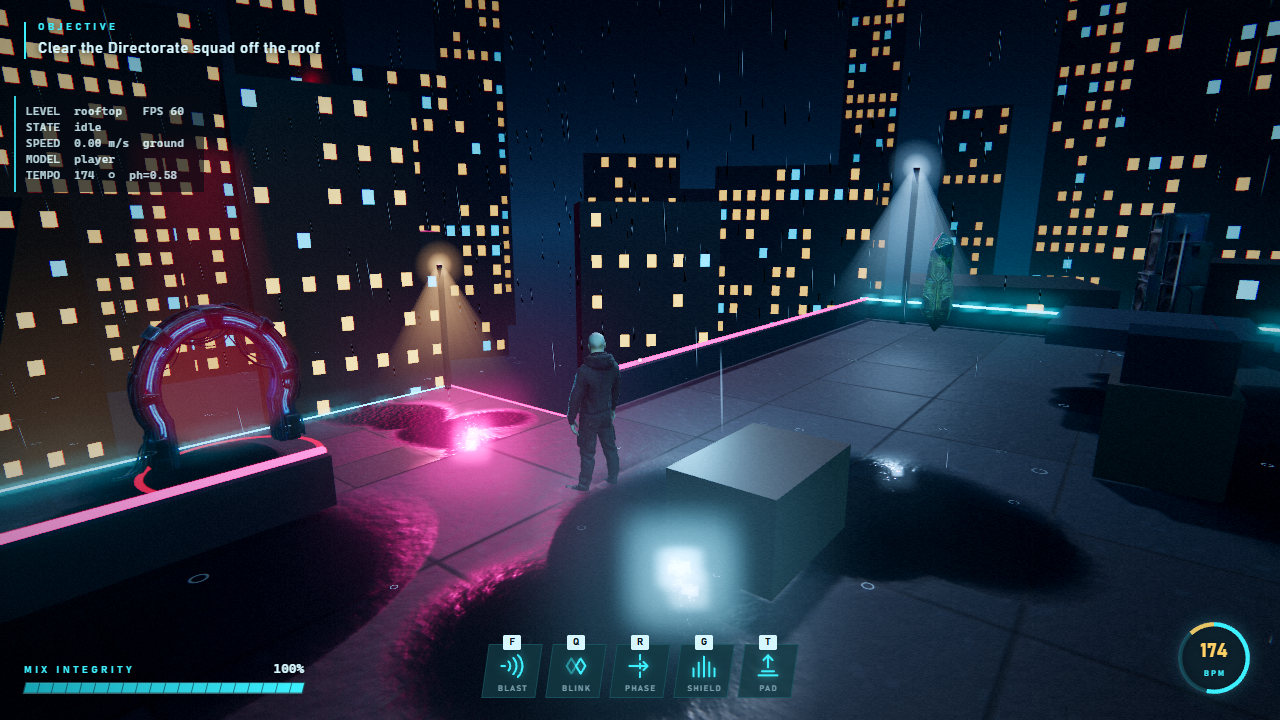
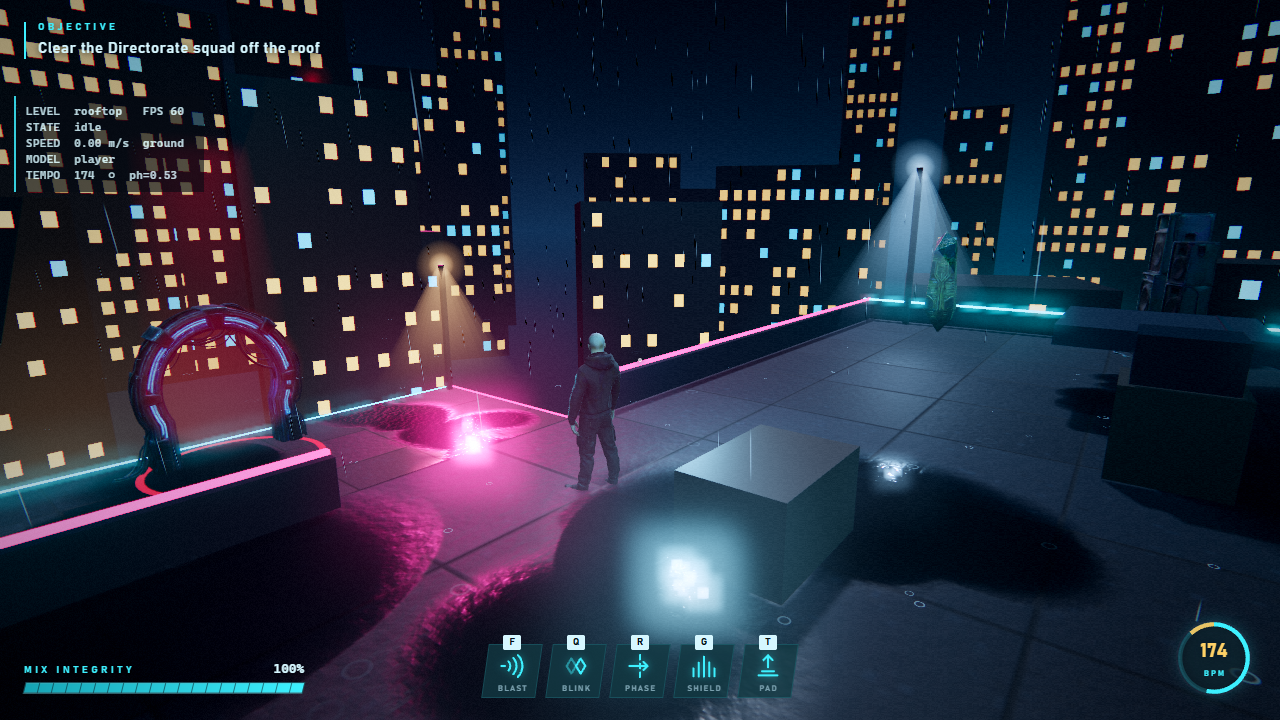
Add out-of-combat recovery, turn-in-place stepping and wall-aware leg speed

diff --git a/src/player/controller.js b/src/player/controller.js
@@ -71,6 +71,8 @@ export function createPlayer(ctx) {
     _dead: false,
     _iframe: 0,
     _dashT: 0,
+    _sinceHurt: 0,
+    _regenT: 0,
     applyImpulse(v) {
       this._impulse.add(v);
     },
@@ -92,6 +94,7 @@ export function createPlayer(ctx) {
   // Power gestures: the powers move the body, the animation layer shows the effort.
   const P = tuning.powerAnim || {};
   const offs = [
+    bus.on('playerDamaged', () => { player._sinceHurt = 0; }),
     bus.on('blink', () => { if (player.hp > 0) loco.play('blinkIn', { fade: 0.02, fadeOut: 0.22 }); }),
     bus.on('phaseSkip', () => {
       if (player.hp <= 0) return;
@@ -453,7 +456,10 @@ export function createPlayer(ctx) {
 
     const wasGrounded = player.isGrounded;
     const vyBefore = player.velocity.y;
+    const px = object.position.x, pz = object.position.z;
     const res = integrate(dt);
+    // what the body actually covered (walls and corners eat speed); the legs follow this, not the stick
+    const moved = dt > 1e-5 ? Math.hypot(object.position.x - px, object.position.z - pz) / dt : 0;
     player.isGrounded = res.grounded;
 
     if (res.grounded) {
@@ -503,10 +509,23 @@ export function createPlayer(ctx) {
       if (player._dodge) player._dodge.dist *= 0.5;
     }
 
+    // ---- out-of-combat recovery: the mix cleans itself up when nothing has hit Kael for a while ----
+    if (player.hp < player.hpMax) {
+      player._sinceHurt += dt;
+      if (player._sinceHurt > (T.regenDelay ?? 5)) {
+        player.hp = Math.min(player.hpMax, player.hp + (T.regenRate ?? 9) * dt);
+        player._regenT -= dt;
+        if (player._regenT <= 0 || player.hp >= player.hpMax) {
+          player._regenT = 0.4;
+          bus.emit('playerHealed', { amount: 0, hp: player.hp, hpMax: player.hpMax, regen: true });
+        }
+      }
+    }
+
     // ---- facing, look-at, stance ----
     if (faceYaw !== null && faceYaw !== undefined) player.yaw = faceYaw;
     const spd = Math.hypot(player.velocity.x, player.velocity.z);
-    const animSpd = player._dodge || player._roll || combat.locked ? 0 : (player.isGrounded ? spd : Math.max(spd, 0.5));
+    const animSpd = player._dodge || player._roll || combat.locked ? 0 : (player.isGrounded ? Math.min(spd, moved * 1.1 + 0.4) : Math.max(spd, 0.5));
     loco.setMove(animSpd, player.yaw);
     if (carry) { loco._spd.p = spd; loco._spd.v = 0; loco.speed = spd; }
     loco.setVertical(player.velocity.y, player.isGrounded);

diff --git a/src/player/locomotion.js b/src/player/locomotion.js
@@ -302,6 +302,16 @@ export class Locomotion {
       }
     } else if (this.loco[0]) w[0] = 1;
 
+    // Turning on the spot: shuffle the feet round instead of pivoting on locked soles.
+    const turn = this.grounded && v < L.turnStepMaxSpeed ? clamp((Math.abs(this.yawVel) - L.turnStepFrom) / L.turnStepRange, 0, 1) : 0;
+    if (turn > 0 && moving.length) {
+      const i0 = this.loco.findIndex((l) => l.name === 'idle');
+      const i1 = this.loco.indexOf(moving[0]);
+      const add = Math.max(0, turn * L.turnStepWeight - w[i1]);
+      if (add > 0) { w[i1] += add; if (i0 >= 0) w[i0] = Math.max(0, w[i0] - add); }
+      rate = Math.max(rate, (Math.abs(this.yawVel) * L.turnStepCadence) / moving[0].clip.duration);
+    }
+
     const blendLam = L.blendLambda;
     this.loco.forEach((l, i) => { l.w = damp(l.w, w[i], blendLam, dt); });
     this._guardW = damp(this._guardW, this.combatIdle, L.guardLambda, dt);

diff --git a/src/player/animTuning.js b/src/player/animTuning.js
@@ -65,6 +65,13 @@ export const animTuning = {
     stopSettlePitch: -6,
     stopSettleHip: 0.045,
 
+    // Turn-in-place shuffle: some of the walk cycle is mixed in while the body yaws at a standstill.
+    turnStepMaxSpeed: 0.6, // m/s; above this the normal gait takes over
+    turnStepFrom: 1.2,     // rad/s of yaw before the feet start stepping
+    turnStepRange: 4,      // rad/s over which it reaches full weight
+    turnStepWeight: 0.45,
+    turnStepCadence: 0.28, // walk cycles per radian turned
+
     minCadence: 0.75,      // slowest step rate (cycles of the walk clip per clip-length) while creeping
     guardLambda: 5,        // idle <-> combat-ready stance
     fallDelay: 0.06,       // seconds airborne before the fall loop takes over (walking off a ledge)

diff --git a/index.html b/index.html
@@ -3,6 +3,7 @@
 <head>
 <meta charset="utf-8">
 <meta name="viewport" content="width=device-width,initial-scale=1">
+<link rel="icon" href="data:,">
 <title>Project Aegis: Echoes of the Grid</title>
 <style>
 :root{--bg:#05070c;--cyan:#3df0ff;--mag:#ff3d8a;--gold:#ffd166;--txt:#d6f7ff;--dim:#7aa0ae;--panel:rgba(6,10,18,.72);--line:rgba(61,240,255,.28);
